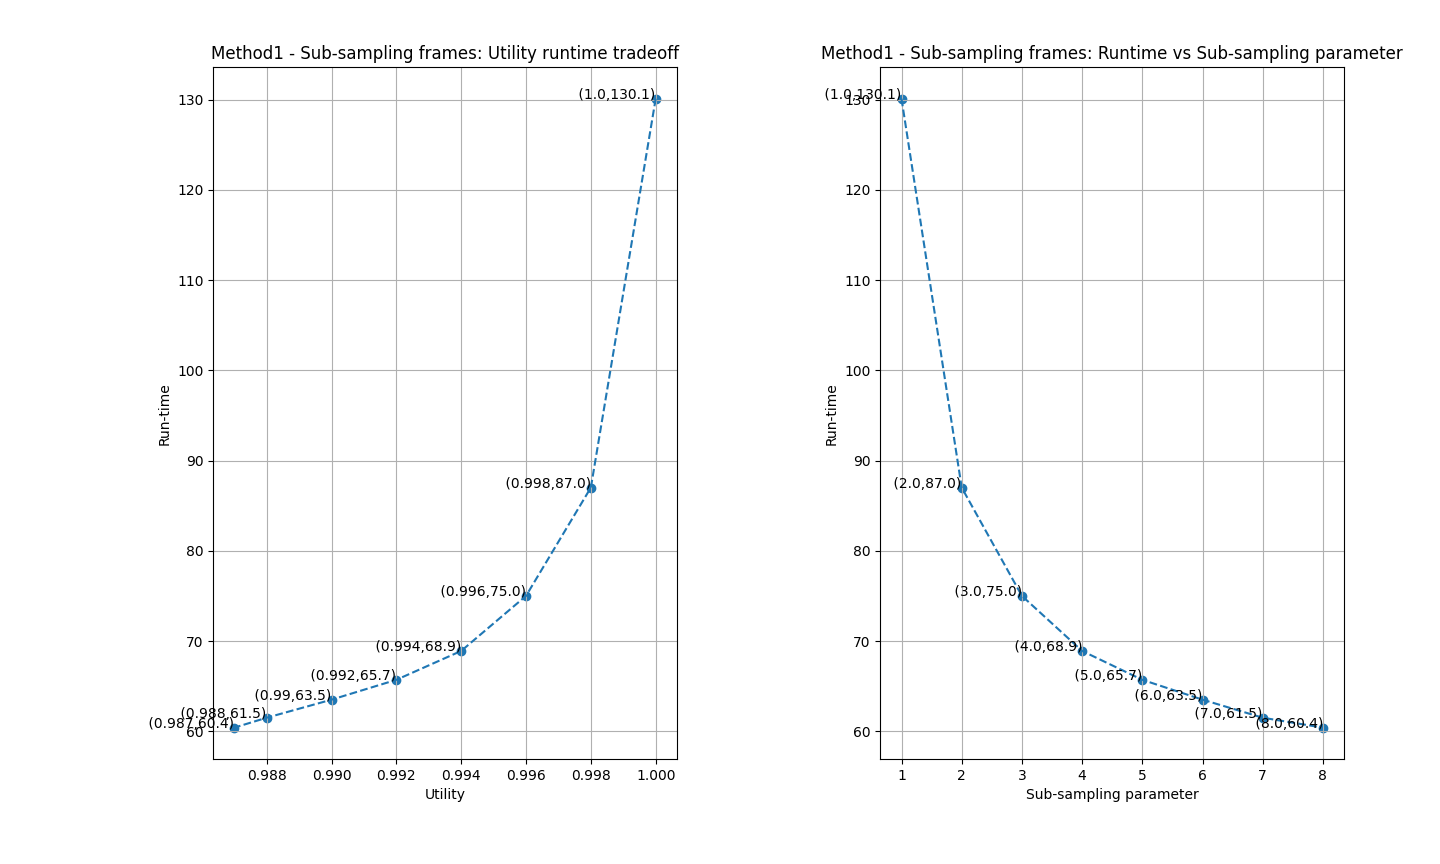
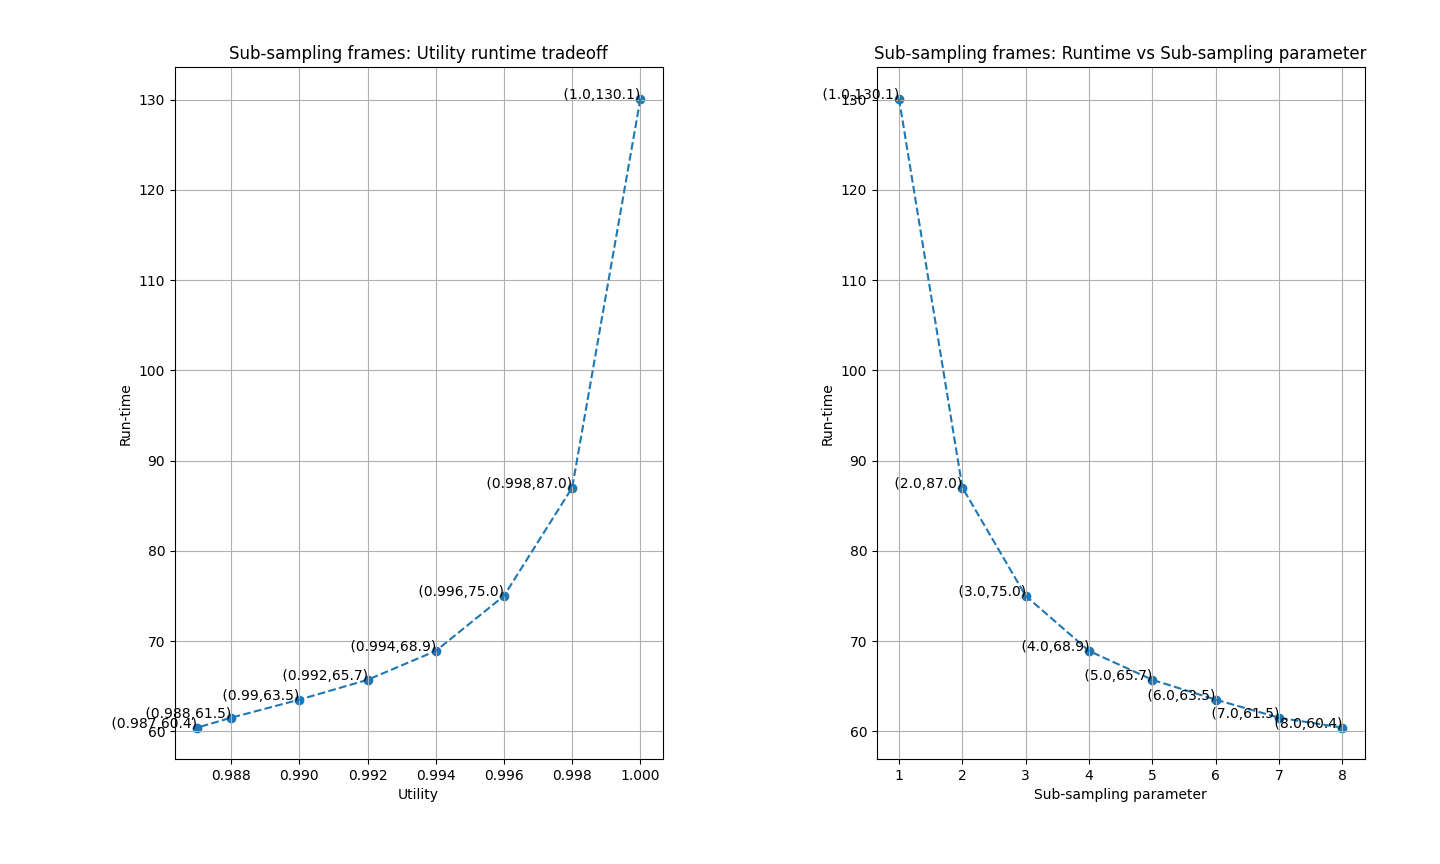
hf

diff --git a/Subtask3/Method1/Analysis/graph.py b/Subtask3/Method1/Analysis/graph.py
@@ -14,7 +14,7 @@ for i in lines:
 f.close()
 
 fig, (ax1,ax2) = plt.subplots(nrows =1, ncols =2)
-ax1.set_title("Method1 - Sub-sampling frames: Utility runtime tradeoff")
+ax1.set_title("Sub-sampling frames: Utility runtime tradeoff")
 ax1.set_ylabel("Run-time")
 ax1.set_xlabel("Utility")
 ax1.scatter(x, y, label='Data')
@@ -23,7 +23,7 @@ for i in range(len(x)):
 	ax1.annotate(" (" + str(x[i]) + "," + str(y[i]) + ")" ,(x[i], y[i]), horizontalalignment='right')
 ax1.grid()
 
-ax2.set_title("Method1 - Sub-sampling frames: Runtime vs Sub-sampling parameter")
+ax2.set_title("Sub-sampling frames: Runtime vs Sub-sampling parameter")
 ax2.set_ylabel("Run-time")
 ax2.set_xlabel("Sub-sampling parameter")
 ax2.scatter(param,y, label='Data')

diff --git a/Subtask3/Method2/Analysis/graph.py b/Subtask3/Method2/Analysis/graph.py
@@ -9,7 +9,7 @@ line = []
 lines = f.readlines()
 for i in lines:
 	line = i.split(",")
-	param.append(float(line[0].split("_")[0]))
+	param.append(round(float(line[0].split("_")[0])/328.0,2))
 	x.append(float(line[1]))
 	y.append(round(float(line[2][:-1]),1))
 f.close()
